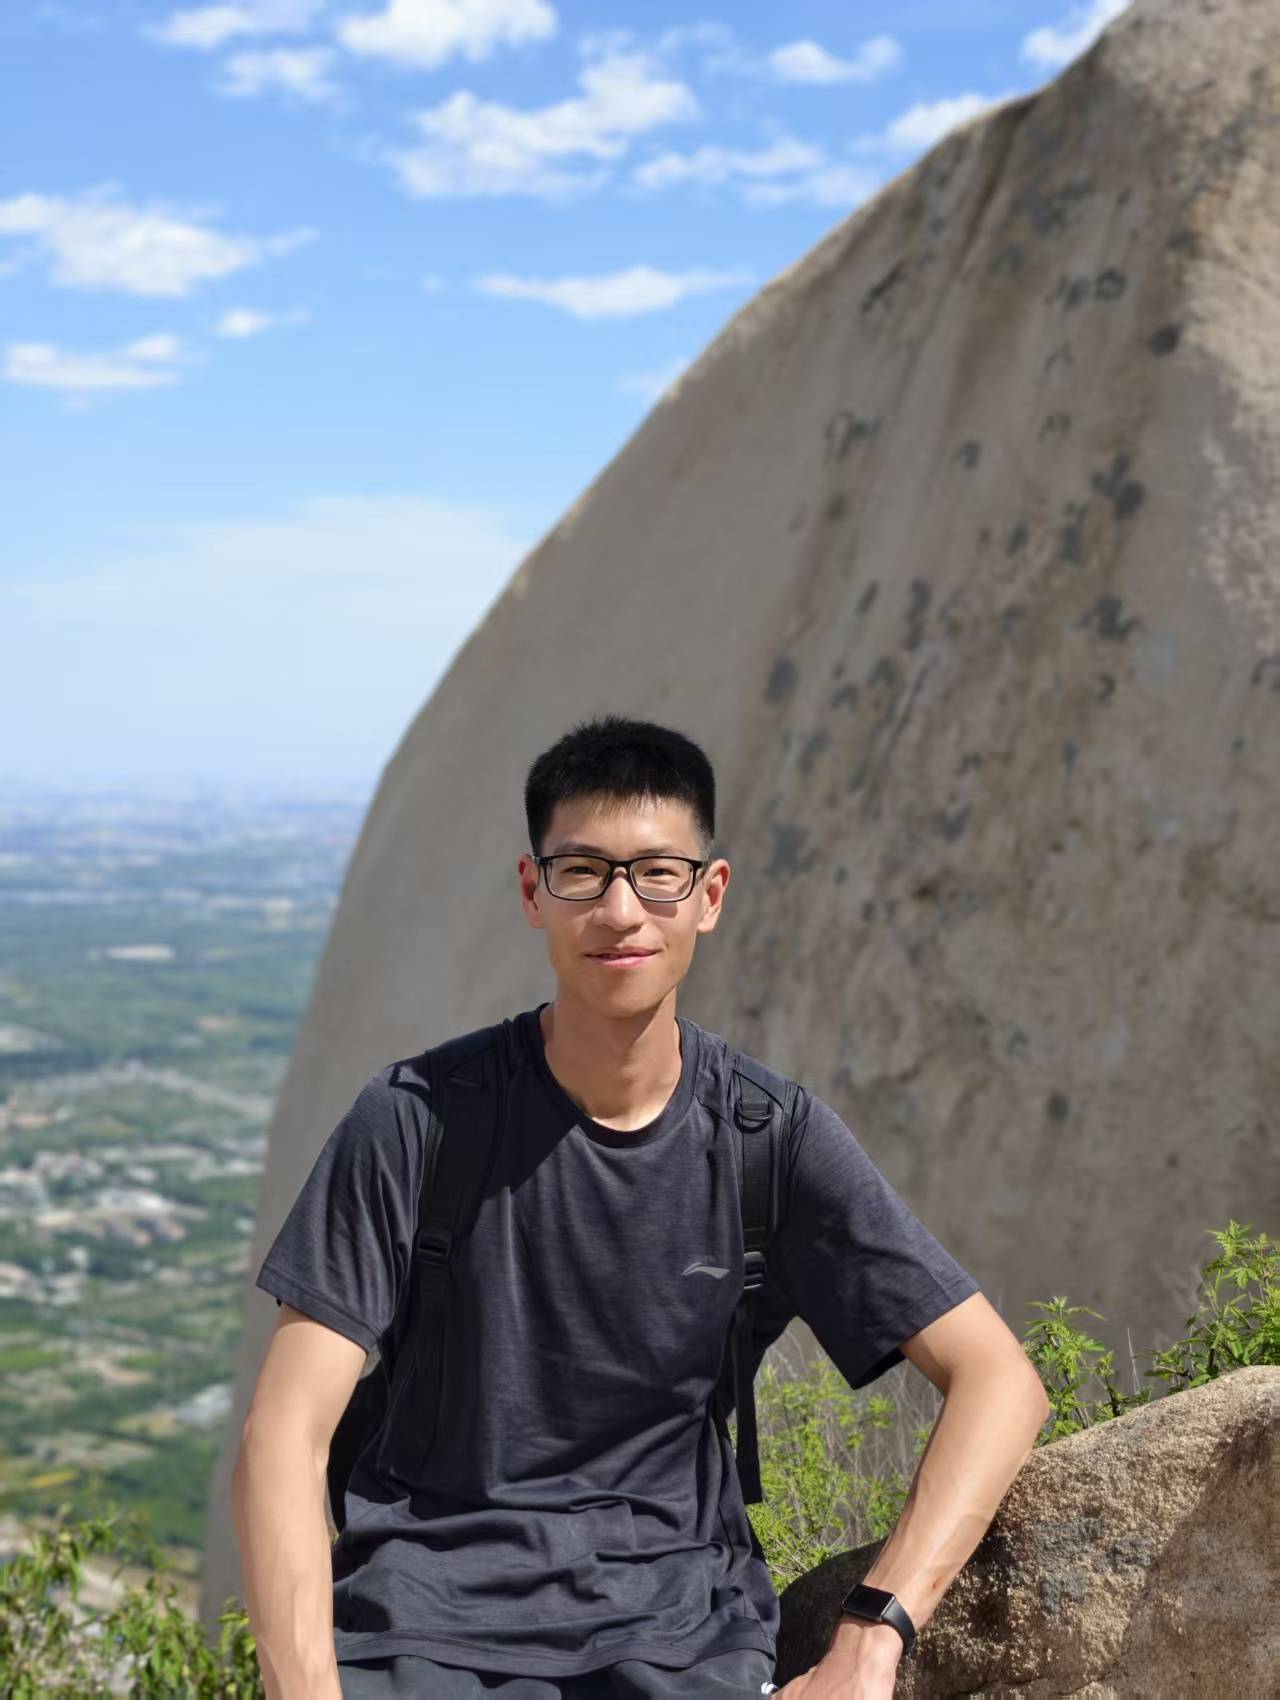
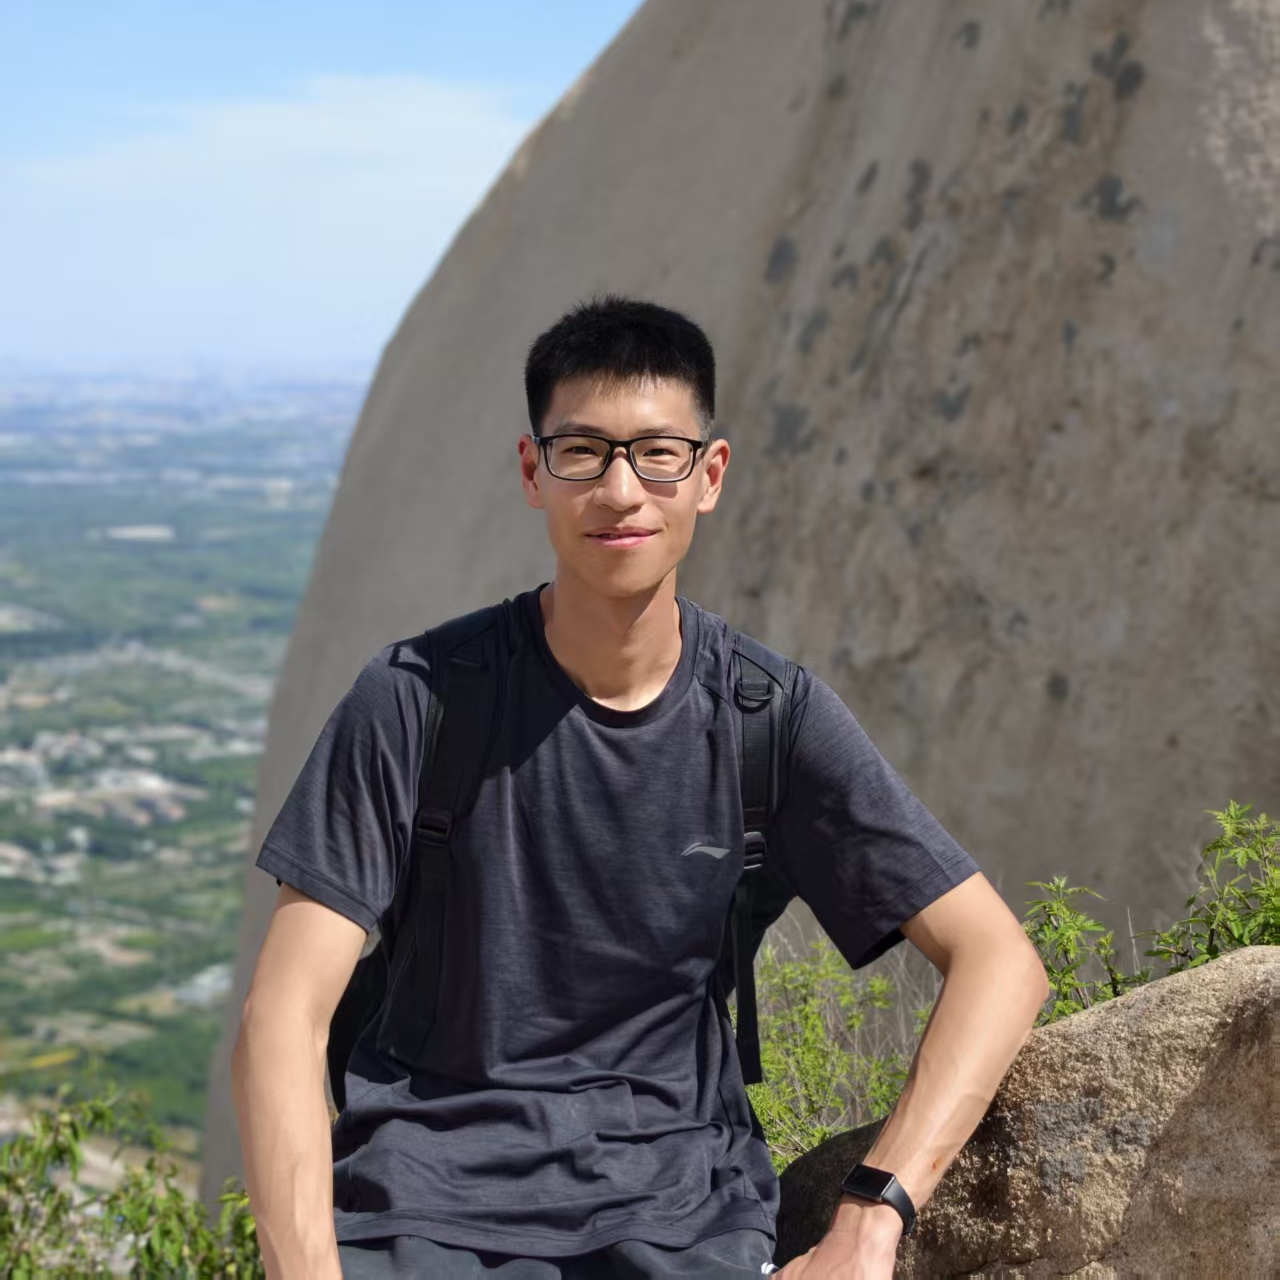
2026/11/11 From pc. Update publications, profile picture, CV. Reorganize self-introduction.

diff --git a/_pages/publications.md b/_pages/publications.md
@@ -22,6 +22,11 @@ For a complete and up-to-date publication list, please see my [Google Scholar](h
 *Under review*, 2026  
 [Preprint](https://arxiv.org/abs/2601.15598)  
 
+**Spiking Neural Networks Predict Trial-level Fission Illusion from EEG Time-frequency Dynamics**  
+Haoping Yang\*, Jiaxin Wang\*, **Boxuan Zhang**, Ye Mao, Lizhong Chi†, Kuan Tao†  
+*Journal of Science in Sport and Exercise*, 2026  
+Accepted
+
 ---
 
 ## 2025
@@ -31,8 +36,8 @@ For a complete and up-to-date publication list, please see my [Google Scholar](h
 *Under review*, 2025  
 [Preprint](https://arxiv.org/abs/2506.19256)  
 
-**Application of artificial intelligence technology in the prevention of sports injury**  
+**Application of artificial intelligence technology in the prevention of sports injury** (Review Article)  
 **Boxuan Zhang**, Ke Zhou, Kuan Tao†  
-*Research on Sports Science and Health (in Chinese)*, review article, 2025  
+*Research on Sports Science and Health (in Chinese)*, 2025  
 [Paper](https://www.rtcmjournal.com/CN/10.3969/j.issn.2097-5457.2025.01.006)  
 <!-- [Paper](https://doi.org/10.3969/j.issn.2097-5457.2025.01.006) -->

diff --git a/_pages/about.md b/_pages/about.md
@@ -1,6 +1,6 @@
 ---
 permalink: /
-title: "Boxuan Zhang"
+title: "About Me"
 author_profile: true
 redirect_from: 
   - /about/
@@ -11,8 +11,21 @@ I'm a 3rd-year Master student at Beijing Sport University, supervised by Prof. [
 
 Education
 ======
-* M.S. in Data Science, Beijing Sport University, 2024-Now
-* B.S. in Computer Science, Beijing University of Technology, 2020-2024
+<!-- * M.S. in Data Science, Beijing Sport University, 2024-Now
+* B.S. in Computer Science, Beijing University of Technology, 2020-2024 -->
+<!-- * <div style="display:flex; justify-content:space-between;"> -->
+
+* <div style="display:grid; grid-template-columns:60px 1fr 180px;">
+  <span>M.S.</span>
+  <span>Data Science, Beijing Sport University</span>
+  <span>2024.09 – Now</span>
+</div>  
+
+* <div style="display:grid; grid-template-columns:60px 1fr 180px;">
+  <span>B.S.</span>
+  <span>Computer Science, Beijing University of Technology</span>
+  <span>2020.09 – 2024.06</span>
+</div>
 
 Contact me
 ======
